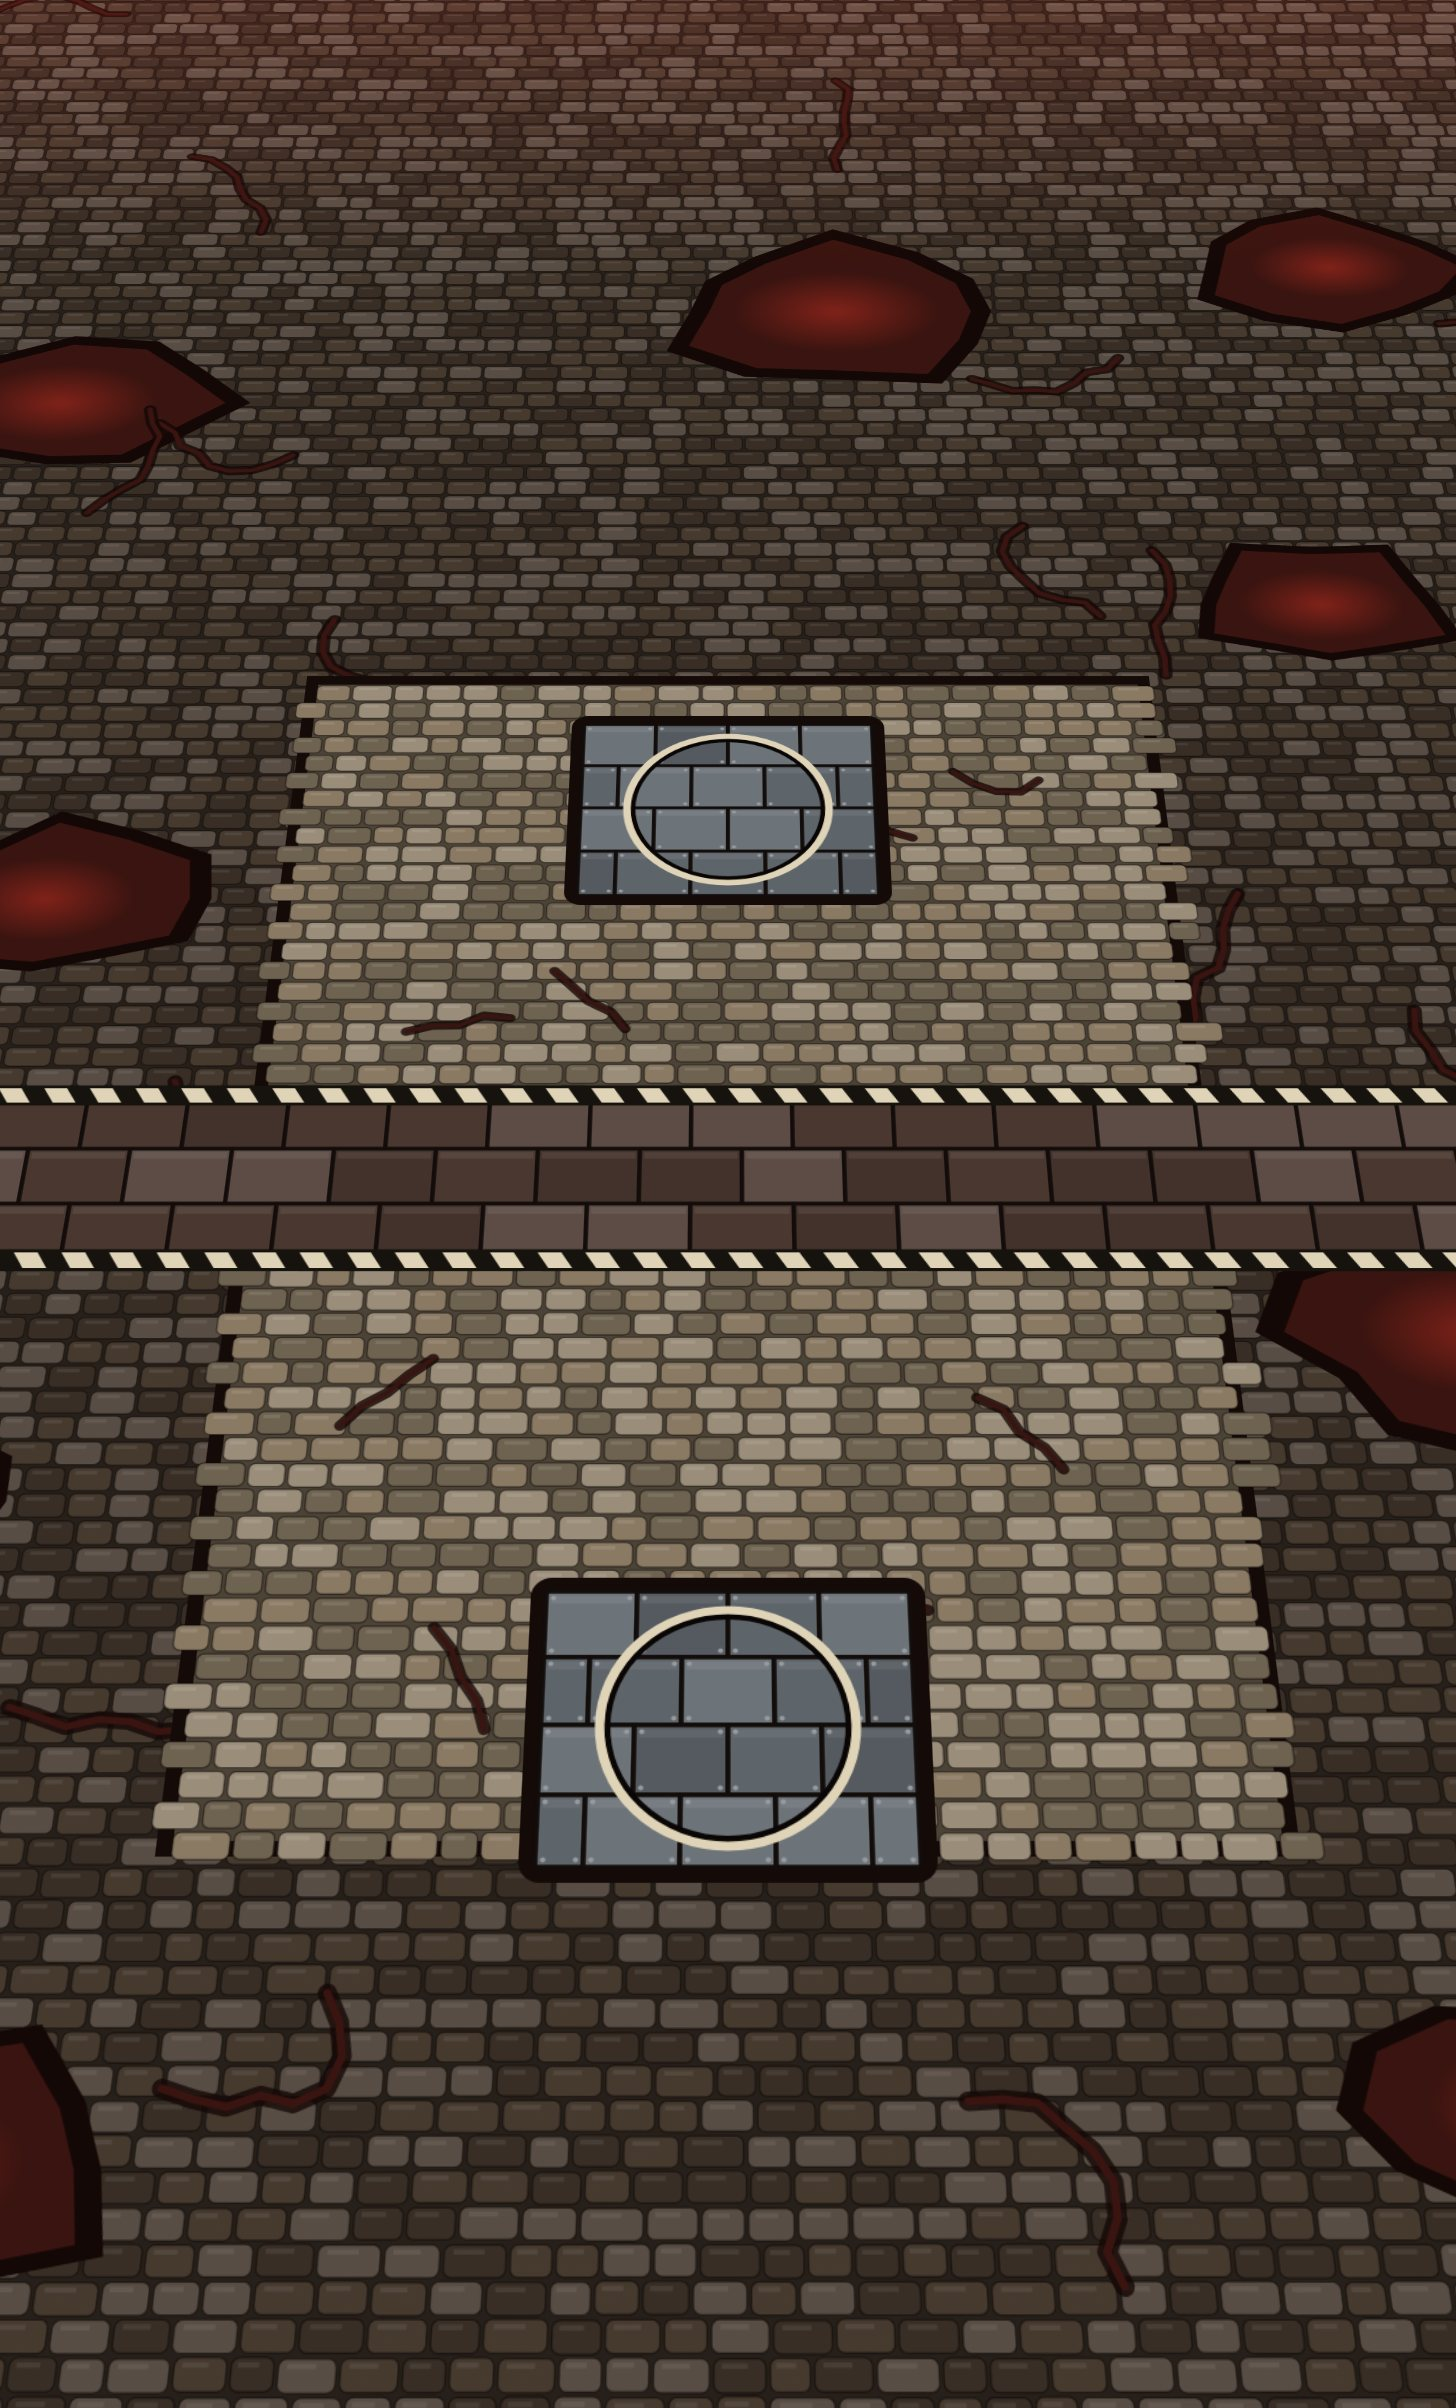
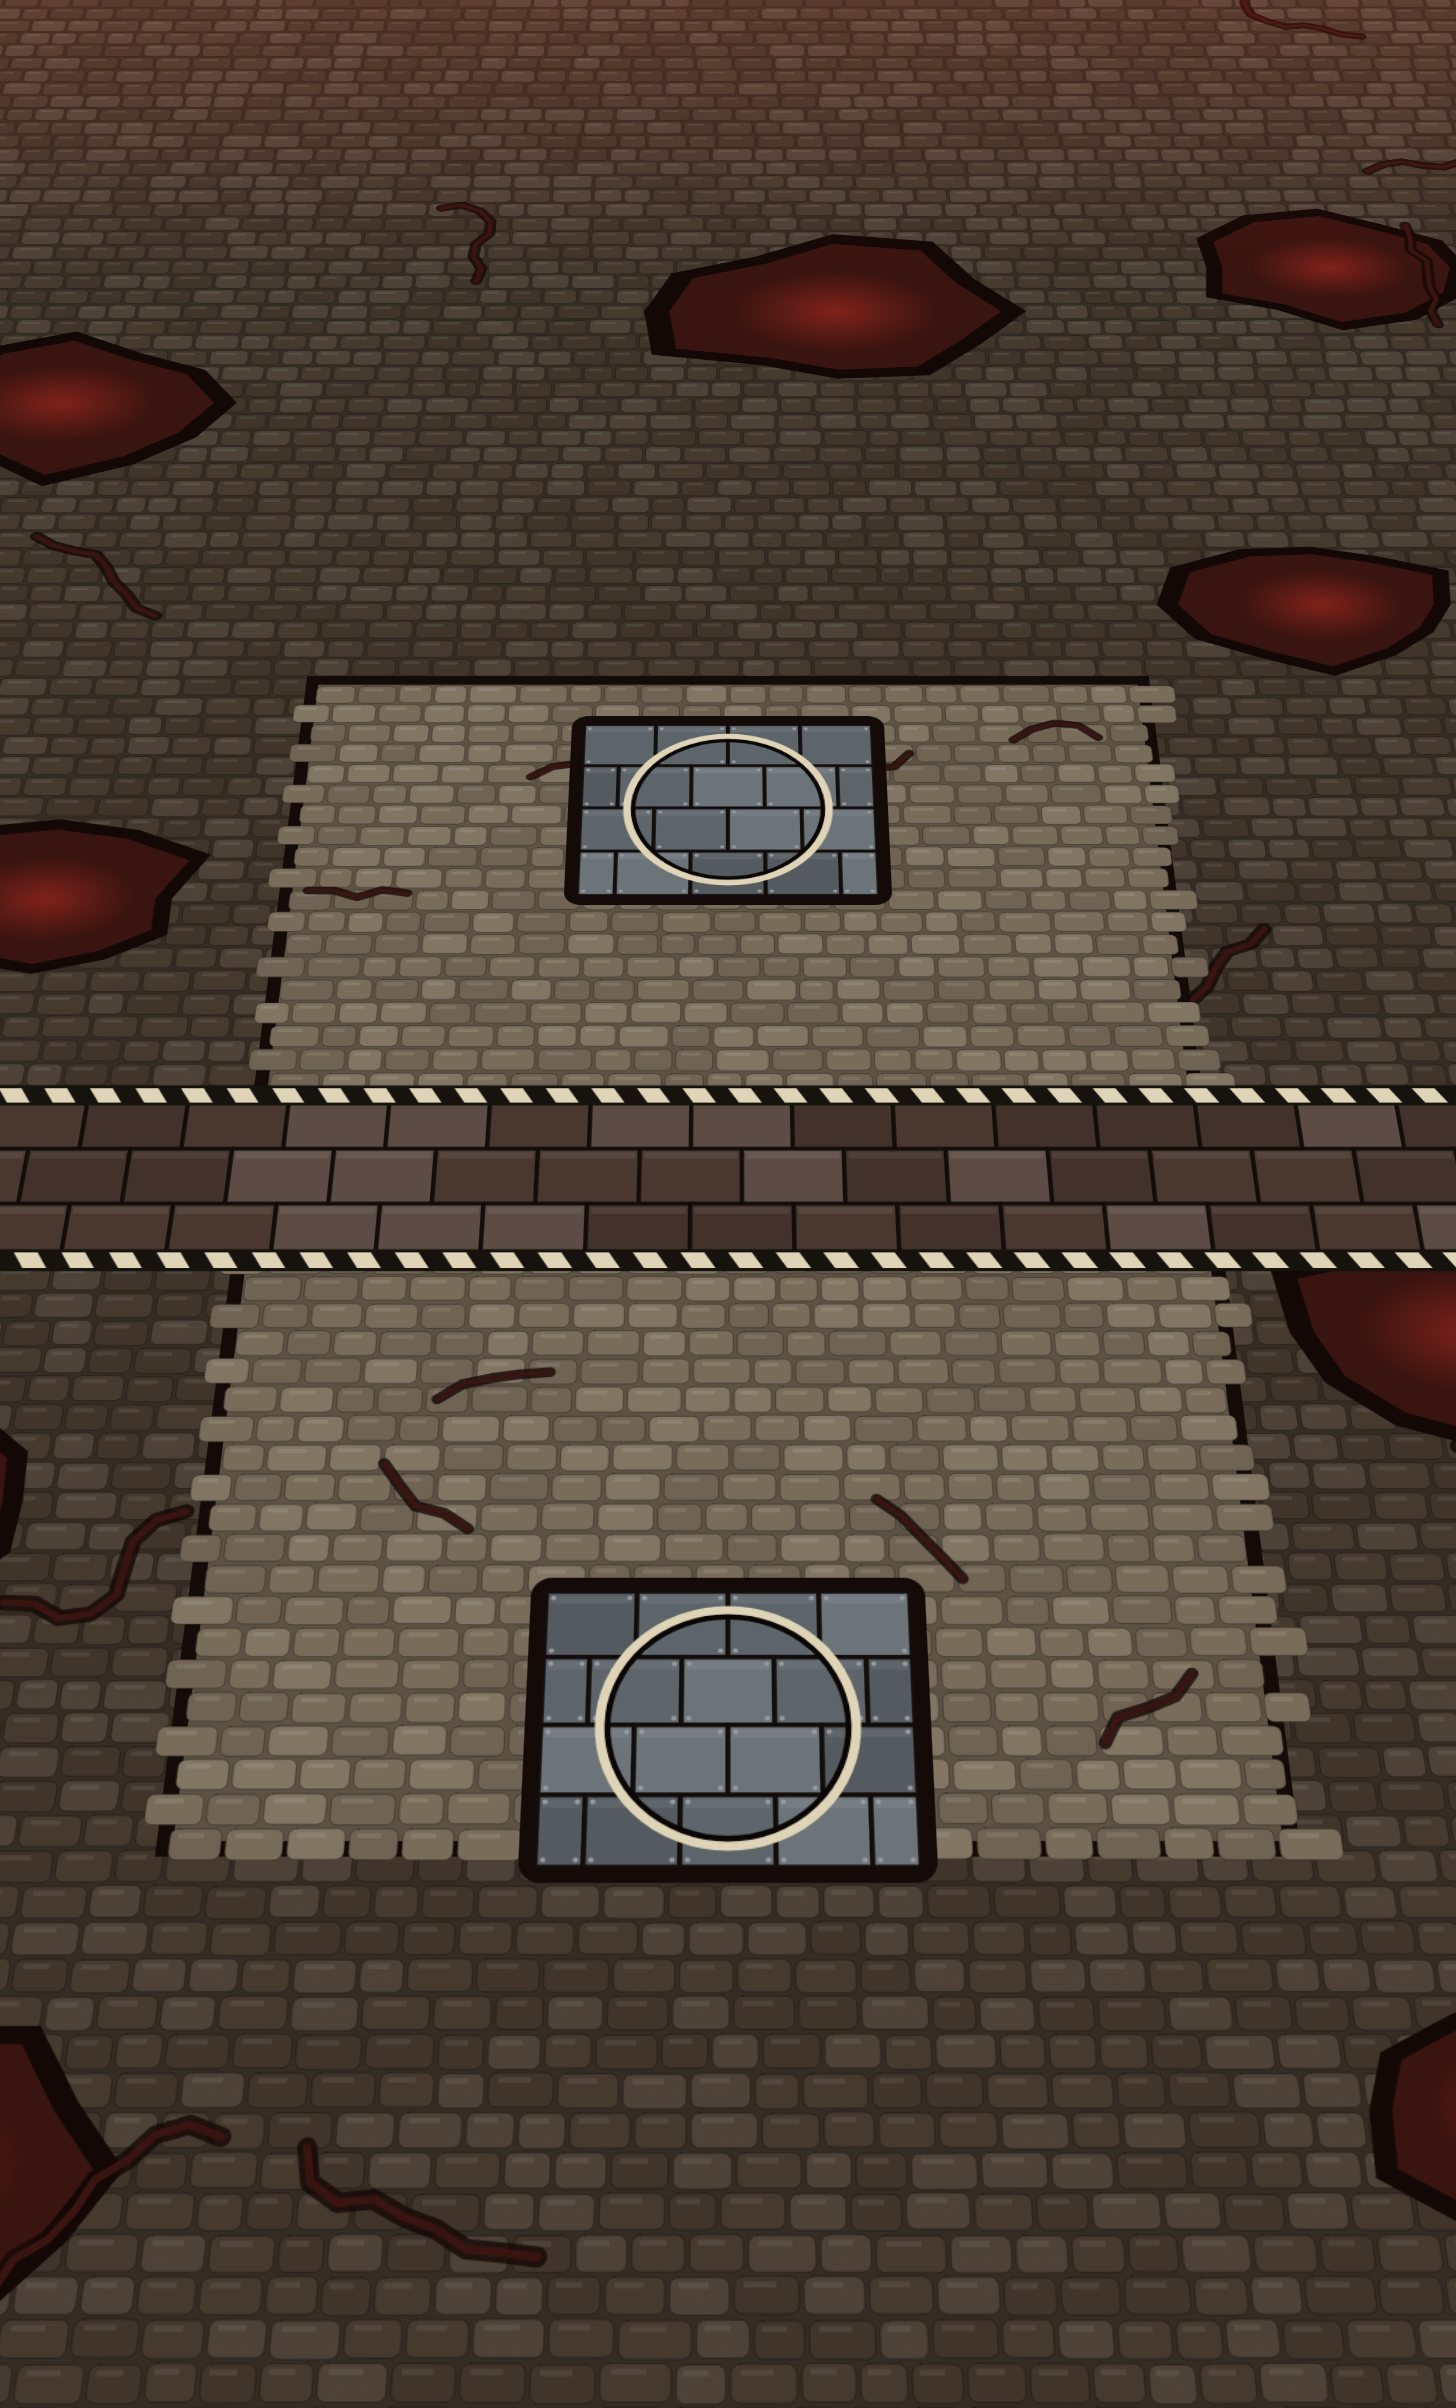
Cindermaw: key art line-up, lighter vignette, arena rebake

diff --git a/games/cindermaw/src/game/terrain.ts b/games/cindermaw/src/game/terrain.ts
@@ -31,7 +31,7 @@ export const TERRAIN: WorldStyle = {
   tex: { stone: "block", stoneDark: "block", plaster: "flesh", plaster2: "flesh", timber: "plank", roof: "plate", roof2: "tile", metal: "plate", rock: "flesh", sack: "stucco" },
   texK: 0.8, texSize: 0.9, ao: 0.7,
   post: {
-    lowres: 2, contrast: 0.3, grade: [["#ff5a20", 0.16, "soft-light"]], vignette: 0.5, dither: 0.7,
+    lowres: 2, contrast: 0.3, grade: [["#ff5a20", 0.16, "soft-light"]], vignette: 0.32, dither: 0.7,
     palette: ["#000000", "#1c0c08", "#3a1410", "#5a1c14", "#8a1c12", "#b3170d", "#e03a10", "#ff7a1c", "#ffb020", "#ffe070", "#2a1c14", "#4a3830", "#6b5348", "#8f7a66", "#b8a488", "#e0d4b8",
       "#22262a", "#3a3f44", "#5d646a", "#8a9298", "#bcc4c8", "#ffffff", "#2f4a12", "#4d6a1c", "#7aa024", "#b8e03a", "#0c3a4a", "#1c6a8a", "#3aa8d0", "#6a1c6a", "#b040b0", "#5a3a1c", "#8a5a2a", "#c08a40"],
   },
